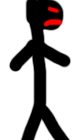
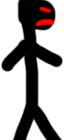
Better mob movement and failure state

diff --git a/build/js/main.js b/build/js/main.js
@@ -1,1 +1,1 @@
-!function t(e,s,i){function r(a,n){if(!s[a]){if(!e[a]){var h="function"==typeof require&&require;if(!n&&h)return h(a,!0);if(o)return o(a,!0);throw new Error("Cannot find module '"+a+"'")}var l=s[a]={exports:{}};e[a][0].call(l.exports,function(t){var s=e[a][1][t];return r(s?s:t)},l,l.exports,t,e,s,i)}return s[a].exports}for(var o="function"==typeof require&&require,a=0;a<i.length;a++)r(i[a]);return r}({1:[function(t){(function(e){var s,i,r,o,a;e.Axe={},s=t("./boot"),r=t("./load"),o=t("./menu"),a=t("./play"),i=new Phaser.Game(960,640,Phaser.AUTO,"game"),i.state.add("boot",s),i.state.add("load",r),i.state.add("menu",o),i.state.add("play",a),i.state.start("boot")}).call(this,"undefined"!=typeof self?self:"undefined"!=typeof window?window:{})},{"./boot":2,"./load":3,"./menu":4,"./play":6}],2:[function(t,e){var s;s=function(){function t(){}return t.prototype.create=function(){return this.input.maxPointers=1,this.scale.scaleMode=Phaser.ScaleManager.SHOW_ALL,this.scale.pageAlignHorizontally=!0,this.scale.pageAlignVertically=!0,this.scale.setScreenSize(!0),this.state.start("load")},t.prototype.preload=function(){return this.load.image("preloaderBar","images/loading-bar.png")},t}(),e.exports=s},{}],3:[function(t,e){var s;s=function(){function t(){Axe.GAME_WIDTH=960,Axe.GAME_HEIGHT=640}return t.prototype.create=function(){return this.state.start("menu")},t.prototype.preload=function(){return this.stage.backgroundColor="#444444",this.preloadBar=this.add.sprite((Axe.GAME_WIDTH-311)/2,(Axe.GAME_HEIGHT-27)/2,"preloaderBar"),this.load.setPreloadSprite(this.preloadBar),this.load.image("background","images/background.png"),this.load.image("floor","images/floor.png"),this.load.image("title","images/title.png"),this.load.image("game-over","images/gameover.png"),this.load.image("score-bg","images/score-bg.png"),this.load.image("button-pause","images/button-pause.png"),this.load.image("player","images/player.png"),this.load.image("enemy","images/enemy.png"),this.load.spritesheet("candy","images/candy.png",82,98),this.load.spritesheet("button-start","images/button-start.png",401,143)},t}(),e.exports=s},{}],4:[function(t,e){var s;s=function(){function t(){}return t.prototype.create=function(){return this.add.sprite(0,0,"background"),this.add.sprite((Axe.GAME_WIDTH-395)/2,60,"title"),this.add.button(this.world.centerX-200,this.world.centerY+100,"button-start",this.startGame,this,1,0,2)},t.prototype.startGame=function(){return this.state.start("play")},t}(),e.exports=s},{}],5:[function(t,e){var s;s=function(){function t(){}return t.prototype.spawnEnemy=function(t){var e,s;return s=Math.random()>.5?Axe.GAME_WIDTH-30:30,e=t.add.sprite(s,Axe.GAME_HEIGHT-80,"enemy"),e.anchor.setTo(.5,1),t.physics.enable(e,Phaser.Physics.ARCADE),t.mobGroup.add(e)},t}(),e.exports=s},{}],6:[function(t,e){var s,i;i=t("./mobs"),s=function(){function t(){this.player=null,this.spawnTimer=null,this.mobGroup=null,this.fontStyle=null,this.scoreText=null,this.score=0,this.health=0}return t.prototype.create=function(){return console.log("GAME STARTED"),this.mobs=new i,this.physics.startSystem(Phaser.Physics.ARCADE),this.physics.arcade.gravity.y=200,this.background=this.add.tileSprite(0,0,Axe.GAME_WIDTH,Axe.GAME_HEIGHT,"background"),this.floor=this.add.tileSprite(0,Axe.GAME_HEIGHT-80,Axe.GAME_WIDTH,83,"floor"),this.add.sprite(10,5,"score-bg"),this.physics.enable(this.floor,Phaser.Physics.ARCADE),this.floor.body.allowGravity=!1,this.floor.body.immovable=!0,this.add.button(Axe.GAME_WIDTH-106,5,"button-pause",this.managePause,this),this.player=this.add.sprite(Axe.GAME_WIDTH/2,Axe.GAME_HEIGHT-83,"player"),this.player.anchor.setTo(.5,1),this.physics.enable(this.player,Phaser.Physics.ARCADE),this.player.immovable=!0,this.fontStyle={font:"40px Arial",fill:"#FFCC00",stroke:"#333",strokeThickness:5,align:"center"},this.spawnTimer=0,this.mobGroup=this.add.group(),this.scoreText=this.add.text(120,20,"0",this.fontStyle),this.score=0,this.health=100,this.cursors=this.input.keyboard.createCursorKeys(),this.mobs.spawnEnemy(this)},t.prototype.managePause=function(){var t;return this.game.paused=!0,this.pausedText=this.add.text(Axe.GAME_WIDTH/4,250,"Game paused.\nClick anywhere to continue.",this.fontStyle),t=this,this.input.onDown.add(function(){return t.pausedText.destroy(),t.game.paused=!1})},t.prototype.update=function(){return this.physics.arcade.collide(this.player,this.floor),this.cursors.left.isDown&&(this.player.scale.x=-1,this.background.tilePosition.x+=3,this.floor.tilePosition.x+=3),this.cursors.right.isDown&&(this.player.scale.x=1,this.background.tilePosition.x-=3,this.floor.tilePosition.x-=3),this.spawnTimer+=this.time.elapsed,this.spawnTimer>1e3&&(this.spawnTimer=0,this.mobs.spawnEnemy(this)),this.mobGroup.forEach(function(t){return function(e){return t.physics.arcade.collide(e,t.floor),t.cursors.left.isDown&&t.physics.arcade.moveToObject(e,t.player,60),t.cursors.right.isDown?t.physics.arcade.moveToObject(e,t.player,60):void 0}}(this)),this.health<=0?(this.add.sprite((Axe.GAME_WIDTH-594)/2,(Axe.GAME_HEIGHT-271)/2,"game-over"),this.game.paused=!0):void 0},t}(),e.exports=s},{"./mobs":5}]},{},[1]);
+!function t(e,s,i){function r(a,n){if(!s[a]){if(!e[a]){var h="function"==typeof require&&require;if(!n&&h)return h(a,!0);if(o)return o(a,!0);throw new Error("Cannot find module '"+a+"'")}var l=s[a]={exports:{}};e[a][0].call(l.exports,function(t){var s=e[a][1][t];return r(s?s:t)},l,l.exports,t,e,s,i)}return s[a].exports}for(var o="function"==typeof require&&require,a=0;a<i.length;a++)r(i[a]);return r}({1:[function(t){(function(e){var s,i,r,o,a;e.Axe={},s=t("./boot"),r=t("./load"),o=t("./menu"),a=t("./play"),i=new Phaser.Game(960,640,Phaser.AUTO,"game"),i.state.add("boot",s),i.state.add("load",r),i.state.add("menu",o),i.state.add("play",a),i.state.start("boot")}).call(this,"undefined"!=typeof self?self:"undefined"!=typeof window?window:{})},{"./boot":2,"./load":3,"./menu":4,"./play":6}],2:[function(t,e){var s;s=function(){function t(){}return t.prototype.create=function(){return this.input.maxPointers=1,this.scale.scaleMode=Phaser.ScaleManager.SHOW_ALL,this.scale.pageAlignHorizontally=!0,this.scale.pageAlignVertically=!0,this.scale.setScreenSize(!0),this.state.start("load")},t.prototype.preload=function(){return this.load.image("preloaderBar","images/loading-bar.png")},t}(),e.exports=s},{}],3:[function(t,e){var s;s=function(){function t(){Axe.GAME_WIDTH=960,Axe.GAME_HEIGHT=640}return t.prototype.create=function(){return this.state.start("menu")},t.prototype.preload=function(){return this.stage.backgroundColor="#444444",this.preloadBar=this.add.sprite((Axe.GAME_WIDTH-311)/2,(Axe.GAME_HEIGHT-27)/2,"preloaderBar"),this.load.setPreloadSprite(this.preloadBar),this.load.image("background","images/background.png"),this.load.image("floor","images/floor.png"),this.load.image("title","images/title.png"),this.load.image("game-over","images/gameover.png"),this.load.image("score-bg","images/score-bg.png"),this.load.image("button-pause","images/button-pause.png"),this.load.image("player","images/player.png"),this.load.image("enemy","images/enemy.png"),this.load.spritesheet("candy","images/candy.png",82,98),this.load.spritesheet("button-start","images/button-start.png",401,143)},t}(),e.exports=s},{}],4:[function(t,e){var s;s=function(){function t(){}return t.prototype.create=function(){return this.add.sprite(0,0,"background"),this.add.sprite((Axe.GAME_WIDTH-395)/2,60,"title"),this.add.button(this.world.centerX-200,this.world.centerY+100,"button-start",this.startGame,this,1,0,2)},t.prototype.startGame=function(){return this.state.start("play")},t}(),e.exports=s},{}],5:[function(t,e){var s;s=function(){function t(){}return t.prototype.spawnEnemy=function(t){var e,s;return s=Math.random()>.5?Axe.GAME_WIDTH-30:30,e=t.add.sprite(s,Axe.GAME_HEIGHT-80,"enemy"),e.anchor.setTo(.5,1),t.physics.enable(e,Phaser.Physics.ARCADE),t.mobGroup.add(e)},t}(),e.exports=s},{}],6:[function(t,e){var s,i;i=t("./mobs"),s=function(){function t(){this.player=null,this.spawnTimer=null,this.mobGroup=null,this.fontStyle=null,this.scoreText=null,this.score=0}return t.prototype.create=function(){return console.log("GAME STARTED"),this.mobs=new i,this.physics.startSystem(Phaser.Physics.ARCADE),this.physics.arcade.gravity.y=200,this.background=this.add.tileSprite(0,0,Axe.GAME_WIDTH,Axe.GAME_HEIGHT,"background"),this.floor=this.add.tileSprite(0,Axe.GAME_HEIGHT-80,Axe.GAME_WIDTH,83,"floor"),this.add.sprite(10,5,"score-bg"),this.physics.enable(this.floor,Phaser.Physics.ARCADE),this.floor.body.allowGravity=!1,this.floor.body.immovable=!0,this.add.button(Axe.GAME_WIDTH-106,5,"button-pause",this.managePause,this),this.player=this.add.sprite(Axe.GAME_WIDTH/2,Axe.GAME_HEIGHT-83,"player"),this.player.anchor.setTo(.5,1),this.physics.enable(this.player,Phaser.Physics.ARCADE),this.player.immovable=!0,this.fontStyle={font:"40px Arial",fill:"#FFCC00",stroke:"#333",strokeThickness:5,align:"center"},this.spawnTimer=0,this.mobGroup=this.add.group(),this.scoreText=this.add.text(120,20,"0",this.fontStyle),this.score=0,this.cursors=this.input.keyboard.createCursorKeys(),this.mobs.spawnEnemy(this)},t.prototype.managePause=function(){var t;return this.game.paused=!0,this.pausedText=this.add.text(Axe.GAME_WIDTH/4,250,"Game paused.\nClick anywhere to continue.",this.fontStyle),t=this,this.input.onDown.add(function(){return t.pausedText.destroy(),t.game.paused=!1})},t.prototype.update=function(){return this.physics.arcade.collide(this.player,this.floor),this.cursors.left.isDown&&(this.player.scale.x=-1,this.background.tilePosition.x+=3,this.floor.tilePosition.x+=3),this.cursors.right.isDown&&(this.player.scale.x=1,this.background.tilePosition.x-=3,this.floor.tilePosition.x-=3),this.spawnTimer+=this.time.elapsed,this.spawnTimer>1e3&&(this.spawnTimer=0,this.mobs.spawnEnemy(this)),this.mobGroup.forEach(function(t){return function(e){var s;return t.physics.arcade.collide(e,t.player,t.gameOver,null,t),t.physics.arcade.collide(e,t.floor),s=60,e.position.x>=Axe.GAME_WIDTH/2?(e.scale.x=-1,t.cursors.left.isDown&&(s=0),t.cursors.right.isDown&&(s=120)):(e.scale.x=1,t.cursors.left.isDown&&(s=120),t.cursors.right.isDown&&(s=0)),t.physics.arcade.moveToObject(e,t.player,s)}}(this))},t.prototype.gameOver=function(){return this.add.sprite((Axe.GAME_WIDTH-594)/2,(Axe.GAME_HEIGHT-271)/2,"game-over"),this.game.paused=!0},t}(),e.exports=s},{"./mobs":5}]},{},[1]);
